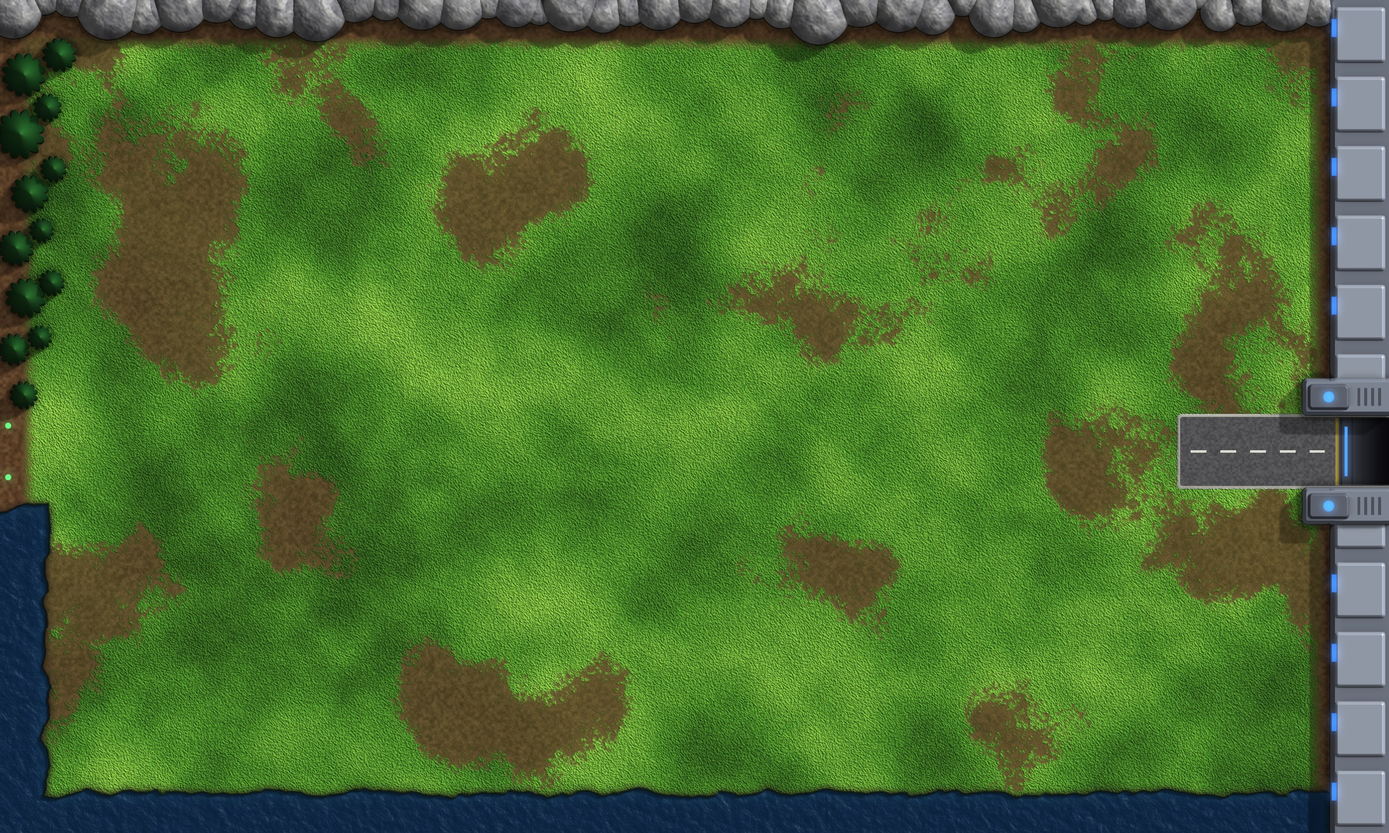
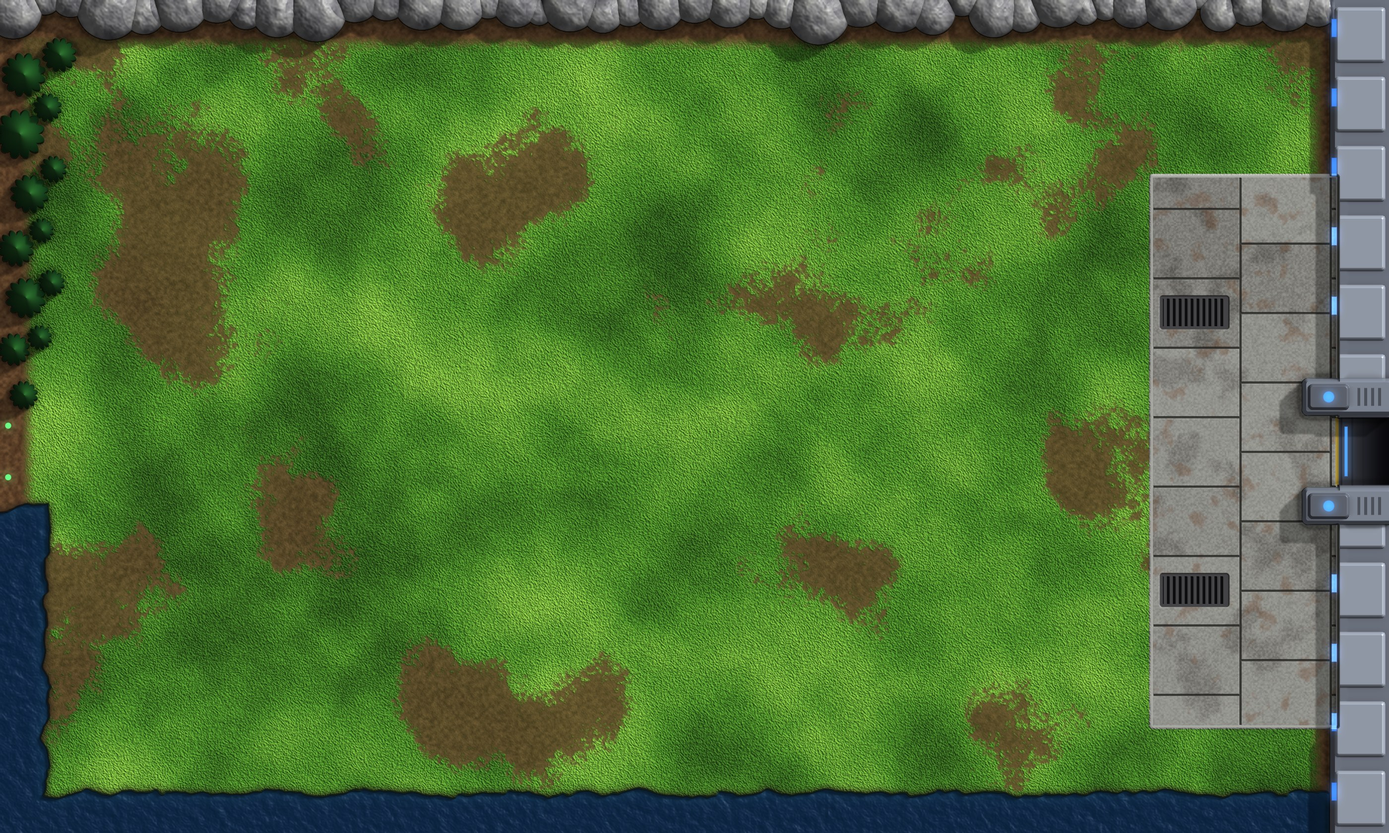
feat: large concrete pad in front of the Basic map base entrance
Replaces the narrow road with a weathered concrete pad of staggered slabs and two drain
grates, keeping the gate towers and tunnel.

Changed region(s): [[0.8079, 0.1857, 0.9632, 0.8976]]

diff --git a/tools/sprites/levels.py b/tools/sprites/levels.py
@@ -297,16 +297,33 @@ def basic_level():
         if not (5 * T < y0 < 8 * T):
             lamp = c.rect(wx + 4, y0 + 24, wx + 14, y0 + 60, 1.5)[0]
             c.paint(lamp, albedo=(0, 0, 0), emit=(0.2, 0.45, 1.0))
-    # Base entrance: a concrete drive leads through the gap into a dark, lit tunnel flanked by
-    # two gate towers.
+    # Base entrance: a large concrete pad in front of a dark, lit tunnel flanked by two gate towers.
     gy0, gy1 = 6 * T, 7 * T
-    road = c.rrect(wx - 2.2 * T, gy0 - 6, c.w + 20, gy1 + 6, 10, 2)
-    asphalt = palette_map(fbm(c.w, c.h, 4, 31, 3), [(0, (0.2, 0.2, 0.21)), (1, (0.34, 0.34, 0.35))])
-    c.block(road, 5, 4, asphalt, 0.15)
-    curb = road[1]
-    c.paint(((curb > 0) & (curb < 7)) * 0.9, albedo=(0.62, 0.62, 0.58))
-    dash = (np.abs(c.y - (gy0 + gy1) / 2) < 3) * (np.mod(c.x, 60) < 32) * c.rect(wx - 2.1 * T, gy0, wx - 10, gy1, 1)[0]
-    c.paint(dash * 0.85, albedo=(0.9, 0.9, 0.85))
+    px0, cw = wx - 2.6 * T, 1.3 * T
+    pad = c.rrect(px0, 2.5 * T, wx + 20, 10.5 * T, 8, 2)
+    # Slabs laid in a running bond, each with its own tone, plus weathering stains.
+    col = np.floor((c.x - px0) / cw)
+    row = np.floor((c.y + np.mod(col, 2) * T / 2) / T)
+    slab = np.mod(np.sin(col * 12.9898 + row * 78.233) * 43758.5, 1)
+    stain = fbm(c.w, c.h, 60, 41, 4)
+    grit = fbm(c.w, c.h, 3, 42, 2)
+    tone = np.clip(0.45 + (slab - 0.5) * 0.25 + (grit - 0.5) * 0.35 - smoothstep(0.55, 0.75, stain) * 0.2, 0, 1)
+    concrete = palette_map(tone, [(0, (0.28, 0.27, 0.25)), (0.5, (0.5, 0.5, 0.48)), (1, (0.66, 0.66, 0.63))])
+    c.block(pad, 6, 4, concrete, 0.12)
+    rust = smoothstep(0.62, 0.8, fbm(c.w, c.h, 30, 43, 4)) * pad[0]
+    c.paint(rust * 0.3, albedo=(0.36, 0.2, 0.1))
+    seam_x = np.mod(c.x - px0, cw) < 4
+    seam_y = np.mod(c.y + np.mod(col, 2) * T / 2, T) < 4
+    seams = (seam_x | seam_y) * (pad[1] > 8)
+    c.paint(seams * 0.85, albedo=(0.16, 0.16, 0.15), height=4)
+    edge = (pad[1] > 0) & (pad[1] < 8)
+    c.paint(edge * 0.9, albedo=(0.62, 0.62, 0.6))
+    # Drain grates on either side of the approach.
+    for gy in (4.5 * T, 8.5 * T):
+        grate_m, grate_in = c.rrect(px0 + 0.15 * T, gy - 34, px0 + 1.15 * T, gy + 34, 6)
+        c.paint(grate_m, albedo=(0.22, 0.22, 0.23), height=3, spec=0.4)
+        slots = (np.mod(c.x, 12) < 5) * (grate_in > 6)
+        c.paint(slots, albedo=(0.04, 0.04, 0.05), height=0)
     tunnel = c.rect(wx + 12, gy0 + 2, c.w + 10, gy1 - 2, 3)[0]
     fade = smoothstep(wx + 10, c.w, c.x)
     c.paint(tunnel, albedo=mix((0.2, 0.21, 0.24), (0.02, 0.02, 0.03), fade), height=4, spec=0.3)
